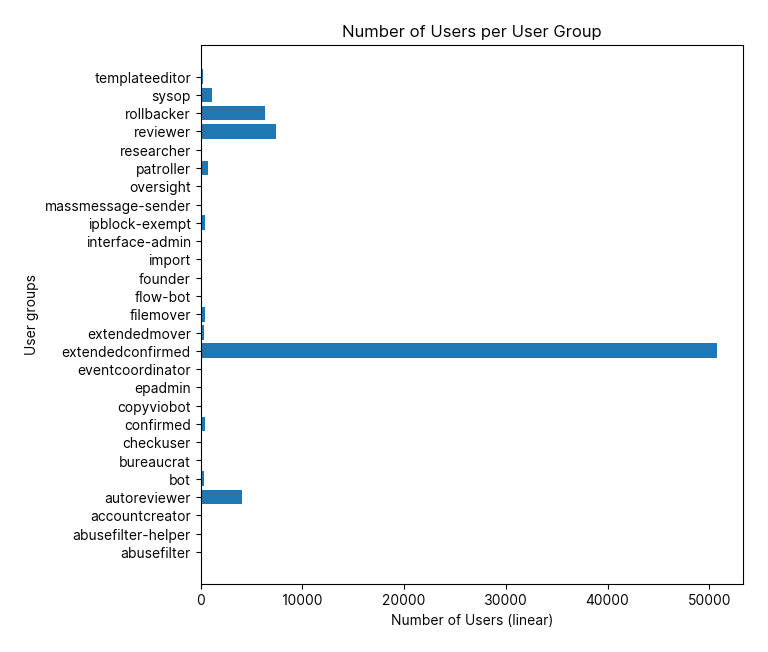
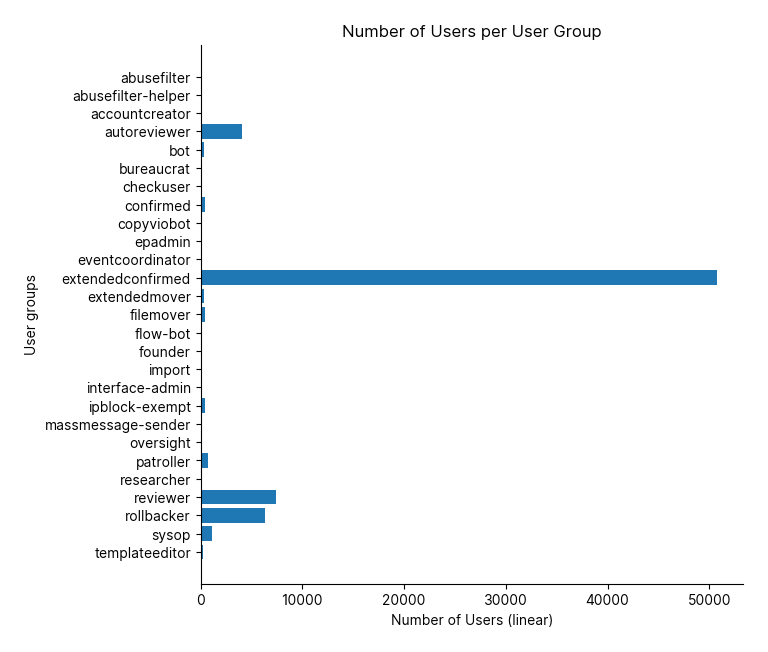
invert legend and axis

Changed region(s): [[0.0625, 0.092, 0.9375, 0.4601], [0.0625, 0.4908, 0.9375, 0.8589]]

diff --git a/nsdb/plot.py b/nsdb/plot.py
@@ -1604,18 +1604,23 @@ def specialUsersPlot(cursor, i, plotDir, dataDir, dryrun):
 
     fig, ax = plt.subplots()  # Create a figure and an axes.
     ax.barh(*zip(*data))
+    ax.invert_yaxis()
     ax.set_ylabel("User groups")  # Add an x-label to the axes.
     ax.set_xlabel("Number of Users (log)")  # Add a y-label to the axes.
     ax.set_xscale("log")
     ax.set_title("Number of Users per User Group")  # Add a title to the axes.
     ax.xaxis.set_major_formatter(tkr.FuncFormatter(threeFigureFormatter))
     plt.gcf().set_size_inches(7, 7)
+    ax.spines["top"].set_visible(False)
+    ax.spines["right"].set_visible(False)
     plt.savefig(figname + "-log", bbox_inches="tight", pad_inches=0.25)
 
     ax.set_xlabel("Number of Users (linear)")
     ax.set_xscale("linear")
 
     plt.gcf().set_size_inches(7, 7)
+    ax.spines["top"].set_visible(False)
+    ax.spines["right"].set_visible(False)
     plt.savefig(figname + "-linear", bbox_inches="tight", pad_inches=0.25)
 
 
@@ -2203,9 +2208,12 @@ def compositionOfUser(cursor, i, plotDir, dataDir, dryrun):
         ax.bar(labels, v, bottom=abs_bottom, label=columns[k])
         y_pos_1 += v[0]
         y_pos_2 += v[1]
-    ax.legend(loc="center left")
+    handles, labels = ax.get_legend_handles_labels()
+    ax.legend(reversed(handles), reversed(labels), loc='center left')
 
     plt.gcf().set_size_inches(5, 10)
+    ax.spines["top"].set_visible(False)
+    ax.spines["right"].set_visible(False)
 
     plt.savefig(figname, bbox_inches="tight", pad_inches=0.25)
     plt.close()
